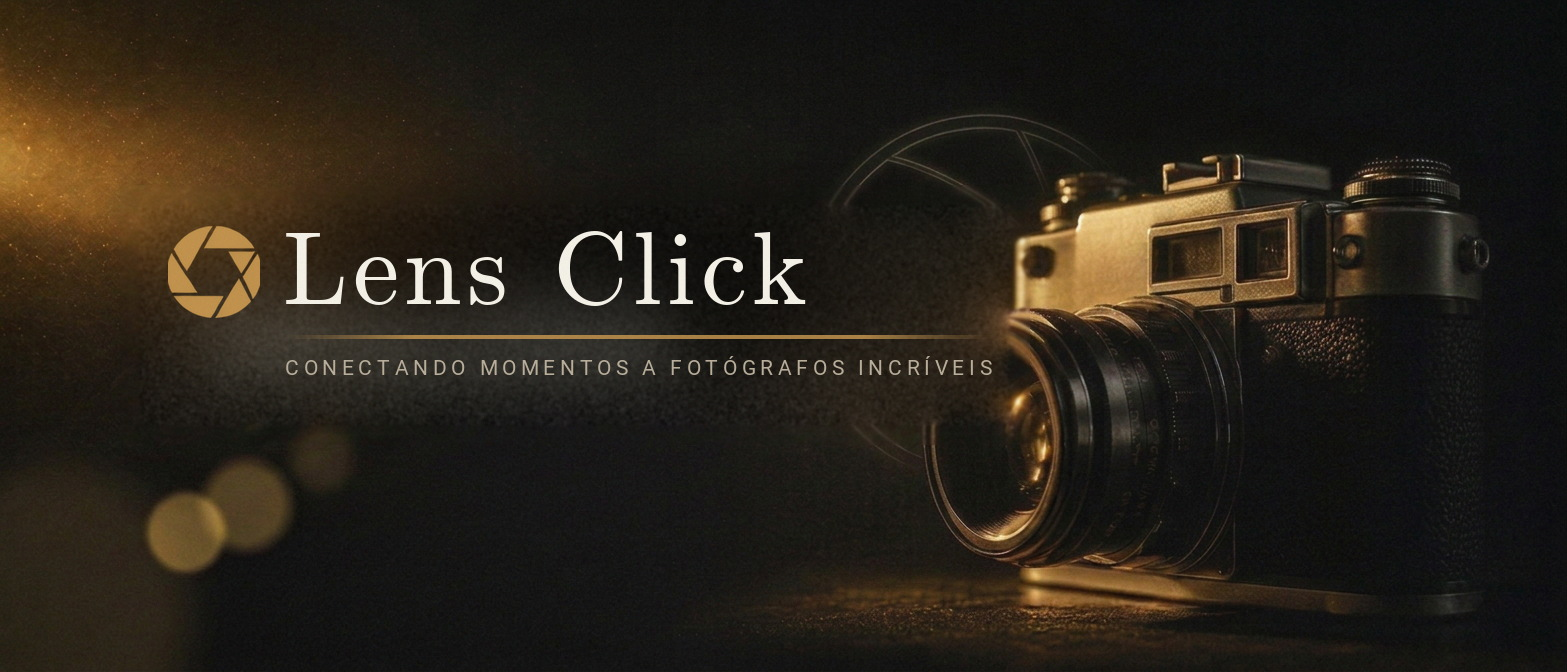
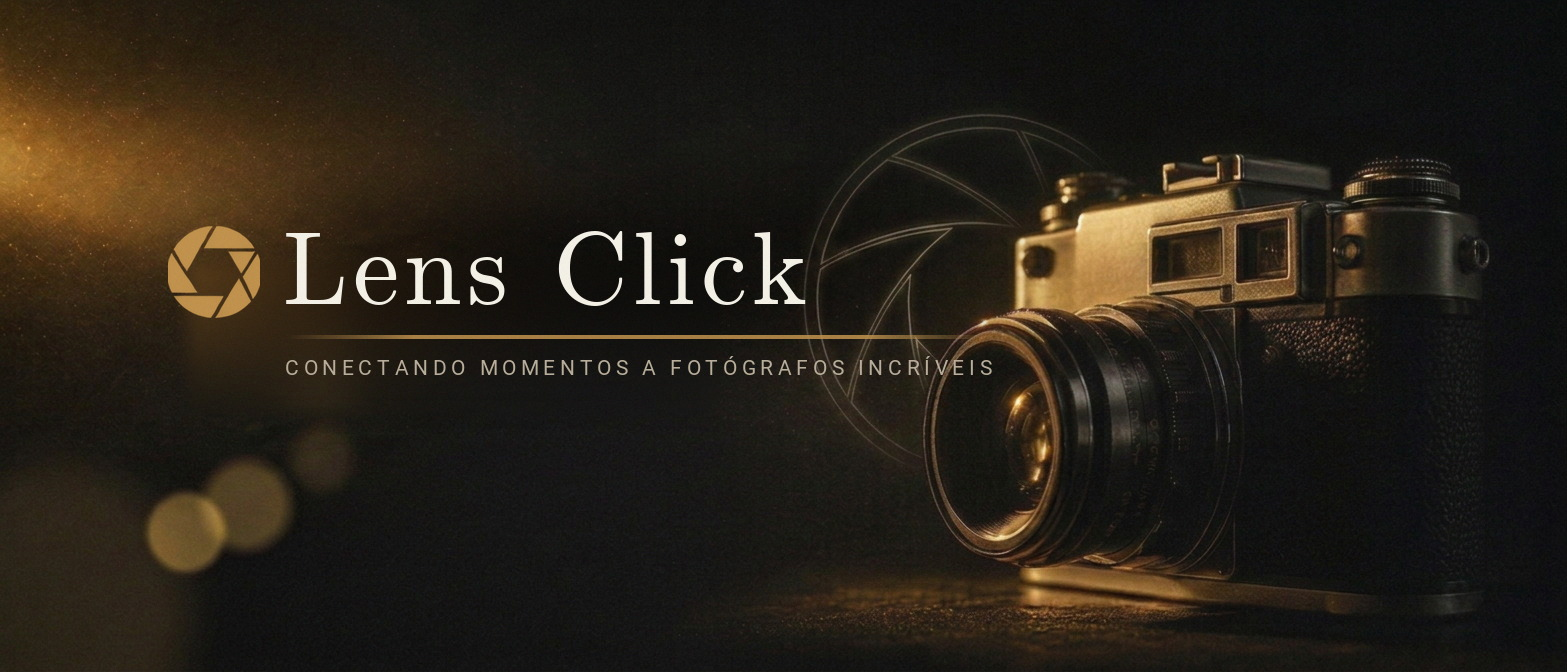
Limpa o letreiro embutido da arte-base e refina o README
Arte-base (assets/hero.jpg):
- remove o texto "Lens Click" e o filete gravados na própria foto usando
  interpolação vertical entre duas bandas limpas (acima e abaixo do letreiro),
  com rampas suaves nas quatro bordas e grão calibrado pelo entorno
- substitui o preenchimento por difusão usado no commit anterior, que deixava
  um retângulo esmaecido visível na área tratada
- resultado medido: descontinuidade vertical máxima de 2,4 níveis (era 98 no
  arquivo original) e grão de 1,1 contra 1,3-1,9 do entorno — sem emenda aparente

Banner:
- regenerado sobre a arte-base limpa, com o lockup da marca (abertura dourada +
  palavra-marca serifada + filete + tagline) sem placa de fundo com bordas

README:
- renomeia a seção para "Formatos da marca" (a tabela passou a ter quatro
  formatos, além do banner) e documenta a arte-base
- refaz o diagrama de fluxo em dois blocos (Cliente e Fotógrafo) para não deixar
  a coluna do modo profissional pendurada na linha do cliente
- padroniza "Onboarding" e "JDK 17 ou superior", e descreve assets/ no índice

diff --git a/README.md b/README.md
@@ -60,18 +60,18 @@ Esta versão entrega **17 telas navegáveis**, interface 100% em português do B
 ## 🗺 Fluxo de telas
 
 ```
-Onboarding ──▶ Tipo de conta ──┬──▶ Cadastro (cliente) ──┐
-     │                         └──▶ Cadastro (fotógrafo)─┤
-     └────────▶ Login ◀──────────────────────────────────┘
-                   │
-     cliente       │        fotógrafo
-        ┌──────────┴───────────┐
-        ▼                      ▼
-     Início              Painel profissional
-        ├─▶ Descobrir ─▶ Perfil do fotógrafo ─▶ Solicitar orçamento   ├─▶ Pedidos
-        ├─▶ Orçamentos                                                 ├─▶ Agenda
-        ├─▶ Conversas ─▶ Chat                                          └─▶ Perfil
-        └─▶ Conta
+Cliente
+  Onboarding ─▶ Tipo de conta ─▶ Login ou Cadastro ─▶ Início
+      ├─▶ Descobrir ─▶ Perfil do fotógrafo ─▶ Solicitar orçamento
+      ├─▶ Meus orçamentos
+      ├─▶ Conversas ─▶ Chat
+      └─▶ Conta
+
+Fotógrafo
+  Onboarding ─▶ Tipo de conta ─▶ Cadastro de fotógrafo ─▶ Painel profissional
+      ├─▶ Pedidos
+      ├─▶ Agenda
+      └─▶ Perfil
 ```
 
 A navegação é uma máquina de estados declarativa (`enum class Screen` + `rememberSaveable`), sem biblioteca de rotas — o app inteiro vive em uma única `Activity`.
@@ -123,16 +123,17 @@ O design segue uma direção **editorial e atemporal**, inspirada na fotografia 
 | 🩶 Cinza | `#716D64` | Texto secundário e placeholders |
 | 🟡 Dourado | `#9A6A24` | Destaques, avaliações e preços |
 
-**A marca em três formatos**
+**Formatos da marca**
 
 | Formato | Arquivo | Onde aparece |
 |---|---|---|
 | Conjunto completo — monograma *LC* + abertura + filetes | `drawable-nodpi/lens_click_mark.png` | Splash, telas de autenticação e cabeçalho das telas internas |
 | Abertura isolada | `drawable-*/ic_launcher_foreground.png` | Ícone do app (o mesmo desenho em preto sólido alimenta a camada *monochrome* dos ícones temáticos) |
 | Lockup transparente com a palavra-marca | `assets/brand_lockup.png` | Base para o banner e para outras peças da marca |
+| Arte-base sem letreiro | `assets/hero.jpg` | Fotografia original com o texto embutido removido, pronta para receber novas composições |
 | Banner montado | `assets/banner.jpg` | Cabeçalho deste README |
 
-Na splash, o ícone é declarado em `Theme.LensClickApp.Starting` (`windowSplashScreenAnimatedIcon`) usando `@drawable/splash_icon`, gerado nas densidades `mdpi`→`xxxhdpi` dentro da especificação do Android 12+: **caixa de 288 dp com o desenho dentro do círculo de 192 dp** que o sistema exibe. O logo em si é desenhado em preto sólido e recolorido em tempo de execução (`BlendMode.SrcIn`), o que permite usar a mesma arte em off-white sobre a foto do onboarding e em dourado nas telas claras.
+Na splash, o ícone é declarado em `Theme.LensClickApp.Starting` (`windowSplashScreenAnimatedIcon`) usando `@drawable/splash_icon`, gerado nas densidades `mdpi`→`xxxhdpi` dentro da especificação do Android 12+: **caixa de 288 dp com o desenho dentro do círculo de 192 dp** que o sistema exibe. O logo em si é desenhado em preto sólido e recolorido em tempo de execução (`BlendMode.SrcIn`), o que permite usar a mesma arte em off-white sobre a fotografia do Onboarding e em dourado nas telas claras.
 
 ## 🗂 Estrutura do projeto
 
@@ -162,7 +163,7 @@ LensClickApp/
 │       │       └── values/                   # cores, tema e strings (pt-BR)
 │       ├── androidTest/                      # testes instrumentados (exemplo)
 │       └── test/                             # testes de unidade (exemplo)
-├── assets/                                   # banner, ícone e lockup usados no README
+├── assets/                                   # banner, arte-base, ícone e lockup da marca
 ├── gradle/
 │   ├── libs.versions.toml                    # catálogo central de versões
 │   └── wrapper/                              # Gradle 9.3.1
@@ -175,7 +176,7 @@ LensClickApp/
 
 ### Pré-requisitos
 
-- **Android Studio** recente (com suporte a AGP 9.x) — ou apenas um JDK 17+ na linha de comando
+- **Android Studio** recente (com suporte a AGP 9.x) — ou apenas um JDK 17 ou superior na linha de comando
 - **SDK Platform 36** instalado no Android SDK Manager
 
 ### Pelo Android Studio
